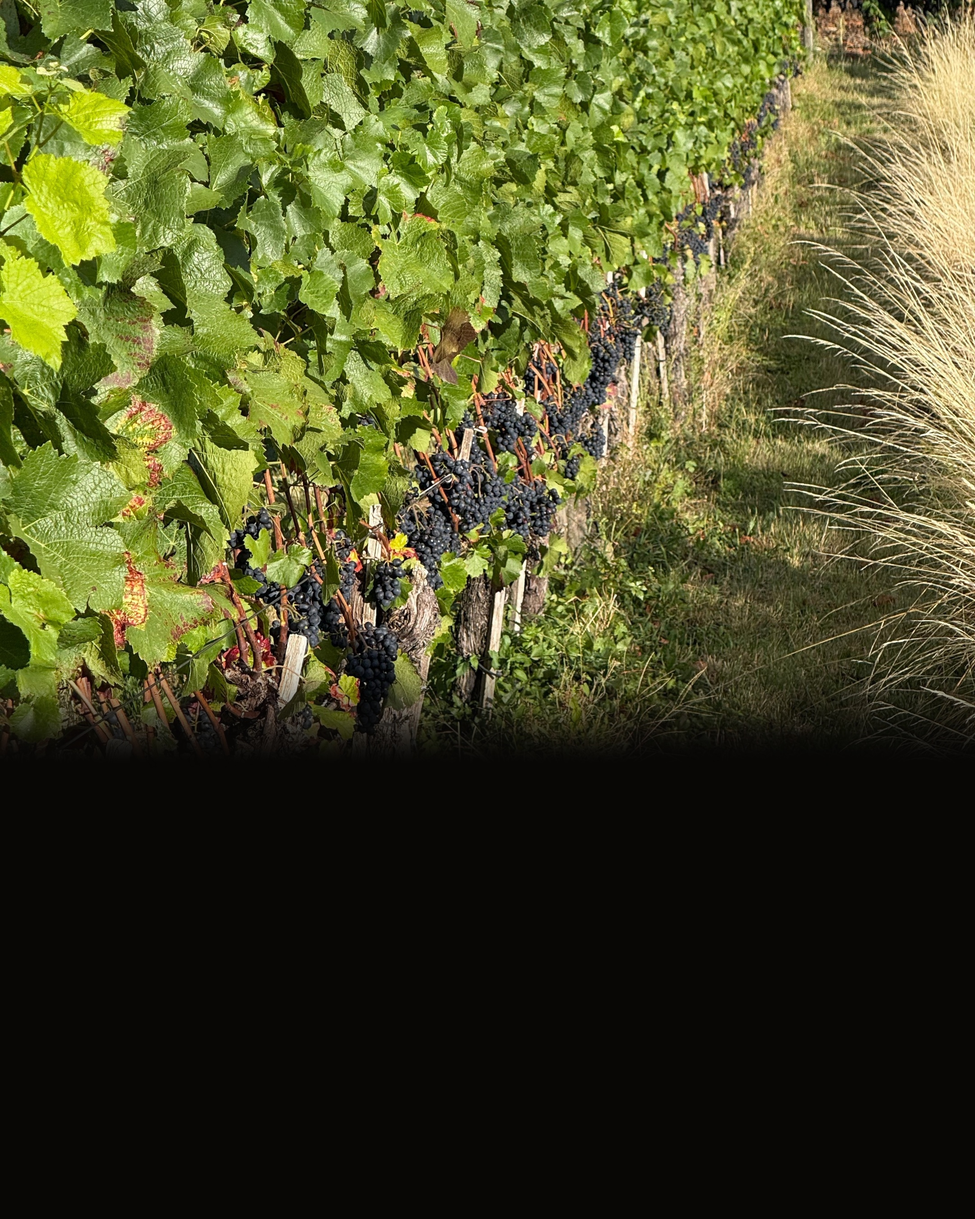
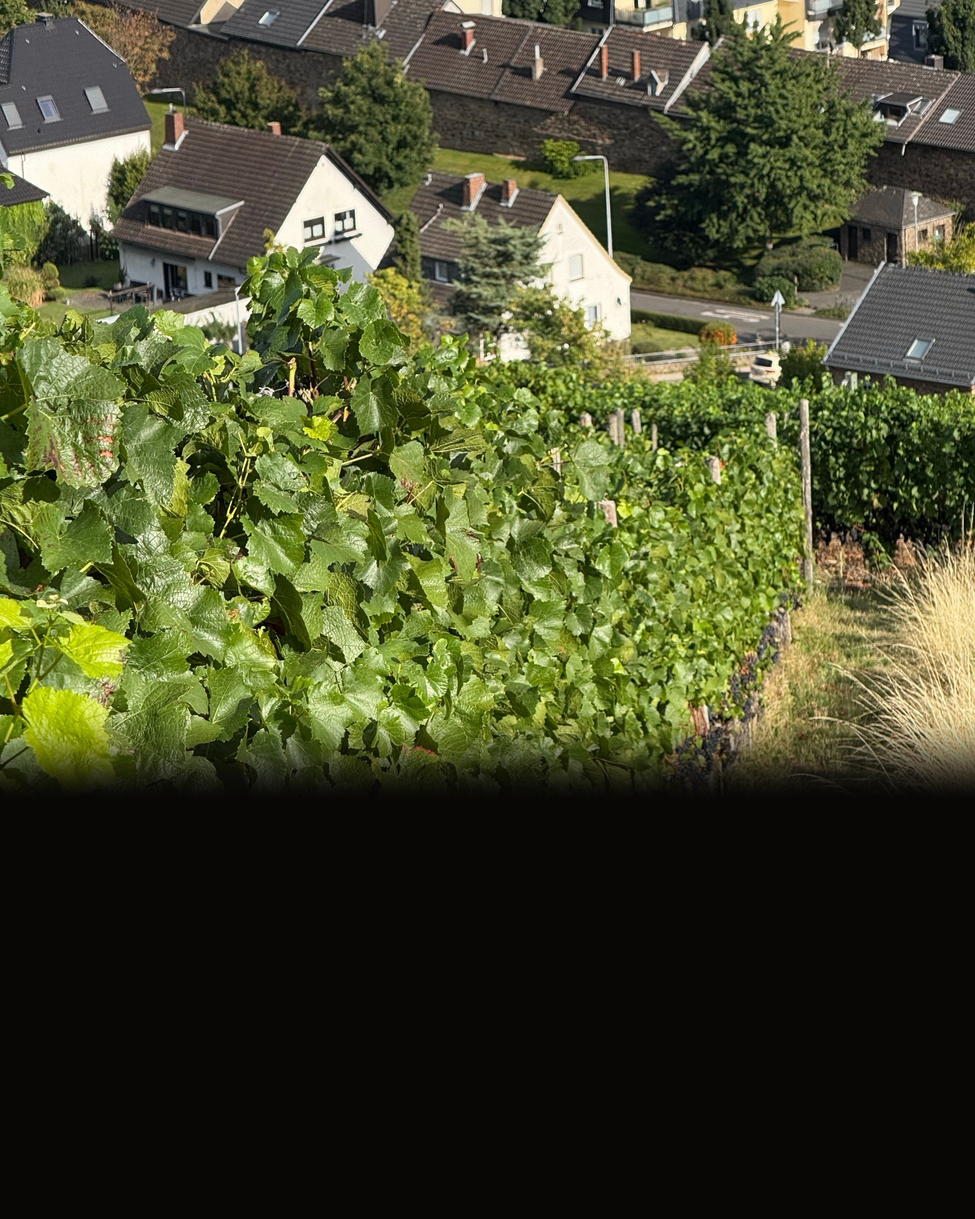
FFFA German reds: cover shows the village; toast photo on page 6
Steve: (1) change the cover crop so the village below is visible; (2) use the supplied
toast photograph on one of the pages.

1. COVER. The round 5 framing had cropped the village out to show the grape clusters. The
   cover is now top-aligned: roofs, garden walls, street and trees are in view above the vines.
   TRADE-OFF, stated plainly: at full width the photo is 2,880px tall but only ~1,780px sit above
   the type zone; the clusters are at 68-98% of the original's height and the village at 0-27%,
   so both cannot show. Three framings (shift 0 / 150 / 330) were compared with the type on;
   top-aligned shows the village best, the others only trade it for foliage. Only the small
   clusters along the row's right edge survive; the fade was made steeper (1560-1780) to keep as
   many as the type zone allows. The round 5 framing is one parameter away (shift_up=1180).
2. PAGE 6 photo: the toast (5538x3692, Pexels, RDNE Stock project; credit from the file name),
   because a toast with red wine pays off the 'Cheers!' sign-off. It replaced the Stuttgart
   terraces, so the Wurttemberg fact loses its Wurttemberg image; stated, and reversible.
   No location asserted. Shows identifiable people (Pexels license; no model release visible).
3. A credit-legibility catch: the adaptive credit chose dark ink (right for the bright corner) and
   an average check passed (10.9:1), but at full size a dark tree trunk crossed one or two
[…]

diff --git a/arc2/build_fffa_reds_cover.py b/arc2/build_fffa_reds_cover.py
@@ -16,15 +16,22 @@ fff_cover() adds no further crop. The glass was first placed 110px up; the base 
 within ~50px of the kicker icon, tight against the 120px rhythm elsewhere, so it is 150px.
 
 THE VINEYARD COVER (current). Steve supplied a 3024x4032 photograph of a vine row with clusters of
-dark red-wine grapes (Pexels, Sayed Masoumi; the photographer's name is from the file name) and
-asked for it as the cover. The clusters sit at ~68-98% of the frame's height, which is exactly
-where the cover's type goes, so a plain crop would put the title across the grapes. Instead the
-photo is scaled to the page width (0.714x: a downscale, so it stays crisp), shifted up 1,180px so
-the clusters sit at roughly y=1100-1650, and faded into near-black from y=1420 to y=1700. The fade ENDS
-at the photo's own bottom edge (page y=1700): a fade that ran past it left a faint green step against the black.
-A first pass (shift 1,304, fade 1250-1580) left the photo filling only the top 58% of the page with the clusters small. The houses
-at the top of the original are cropped out, which keeps the cover about the grapes. Location is
-NOT asserted: Pexels carries none and the file has none.
+dark red-wine grapes and a village below the slope (Pexels, Sayed Masoumi; the photographer's name
+is from the file name). Location is NOT asserted: Pexels carries none and the file has none.
+The photo is scaled to the page width (0.714x: a downscale, so it stays crisp) and TOP-ALIGNED, so
+the village (roofs, garden walls, street, trees) is in view, then faded into near-black from
+y=1560 to y=1780, which is where the cover's type zone begins (~1788).
+
+THE TRADE-OFF, and the history. At full width the whole photo is 2,880px tall but only ~1,780px
+sit above the type zone, so the village and the grape clusters cannot both be shown: the
+clusters are at 68-98% of the original's height, the village at 0-27%. Round 1 framed the clusters
+and cropped the village out (shift 1,304, then 1,180); Steve asked to see the village, so round 2
+is top-aligned. Three framings were compared with the type on: top-aligned (shift 0), 150 and 330.
+Top-aligned shows the village best; the others only trade it for foliage without bringing the
+grapes back. Only the small clusters along the right edge of the row survive; the fade was made
+steeper (start 1560, was 1420) to keep as many of those visible as the type zone allows. The fade
+ends where the type zone begins; earlier it ended exactly at the photo's own bottom edge, which
+no longer applies because the photo now continues below the canvas.
 
 THE GLASSES COVER (previous; retained, build with --glasses). Steve supplied a photograph of two glasses of red wine at a
 candlelit table (photos/de_reds_cover_glasses_612.jpg, 612x408 px, no embedded credit or license
@@ -63,7 +70,7 @@ def smooth(t):
     return t * t * (3 - 2 * t)
 
 
-def build_vineyard_cover(shift_up=1180, fade_from=1420, fade_to=1700):
+def build_vineyard_cover(shift_up=0, fade_from=1560, fade_to=1780):
     src = Image.open(f"{ROOT}/photos/de_reds_cover_vineyard_pexels.jpg").convert("RGB")
     sh = int(round(src.height * W / src.width))
     arr = np.asarray(src.resize((W, sh), Image.LANCZOS)).astype(float)
@@ -118,8 +125,9 @@ def grade_terraces(gamma=0.6):
 
 
 def main():
-    grade_terraces()
     build_vineyard_cover()
+    if "--terraces" in sys.argv:        # the closing page no longer uses the Stuttgart terraces
+        grade_terraces()
     if "--glasses" in sys.argv:
         build_glasses_cover()
     if "--splash" in sys.argv:

diff --git a/arc2/render_fffa_german_reds.py b/arc2/render_fffa_german_reds.py
@@ -69,7 +69,7 @@ The earlier splash cover was Saman Taheri (Unsplash). 1: Rheinhessen
 (Jugenheim) vineyard at sunrise, Sven Wilhelm. 2: red grapes, Waltershofen (Baden), Sven Finger.
 3: dark grapes, Rheinland-Pfalz, Luca J. 4: autumn vines on steep slate terraces at
 Mayschoss (Ahr), Superbass (Commons, CC BY-SA 3.0): Mayschoss is the village D3 names for the
-oldest cooperative in the world. 5: terraced vineyards, Stuttgart, Heliao. Grape varieties
+oldest cooperative in the world. 5: a toast with red wine (Steve's pick), RDNE Stock project (Pexels); it replaced the Stuttgart terraces (Heliao). Grape varieties
 are NOT asserted for any photograph.
 
 Social gates on a 6-page facts post:
@@ -112,7 +112,8 @@ CRED_WILHELM = "Sven Wilhelm / Unsplash"
 CRED_FINGER = "Sven Finger / Unsplash"
 CRED_LUCA = "Luca J / Unsplash"
 CRED_SUPERBASS = "Superbass / Wikimedia Commons (CC BY-SA 3.0)"
-CRED_HELIAO = "Heliao / Unsplash"
+CRED_HELIAO = "Heliao / Unsplash"   # the Stuttgart terraces: unused since page 6 took the toast photo
+CRED_RDNE = "RDNE Stock project / Pexels"
 
 COVER = dict(
     # Steve's photograph of a vine row with clusters of dark grapes (Pexels, Sayed Masoumi: the
@@ -175,7 +176,13 @@ FACTS = [
     ),
     dict(
         number=5,
-        photo="de_reds_stuttgart_terraces_graded",   # gamma 0.6; see build_fffa_reds_cover.py
+        # Steve: "use this picture on one of the pages". Page 6 is the natural home: a toast with red
+        # wine is the payoff for the "Cheers!" sign-off. TRADE-OFF: it replaced the Stuttgart
+        # terraces, so the Wurttemberg fact no longer carries a Wurttemberg image. The toast photo
+        # claims no place (Pexels gives none), and none is asserted. Credit from the file name
+        # (pexels-rdne-...): "rdne" is the Pexels contributor "RDNE Stock project". It shows
+        # identifiable people; Pexels' license covers that use, but a model release is not visible.
+        photo="de_reds_toast_pexels_rdne",
         photo_anchor=0.5,
         # First draft: "Two-Thirds Red, but Not Led by Pinot Noir", on two lines, which pushed
         # "Cheers!" to 57px from the page edge (the margin is 120). One line brings it up; and
@@ -195,7 +202,7 @@ FACTS = [
         # One line holds ~49 characters. First try ("...lead, though both came from elsewhere.", 63) wrapped
         # to a second line and put "Cheers!" 56px from the page edge. "Imports" is factual: Tyrol, Slovenia.
         body="Trollinger and Lemberger lead; both are imports.",
-        photo_credit=CRED_HELIAO,
+        photo_credit=CRED_RDNE,
     ),
 ]
 
@@ -214,7 +221,8 @@ def build():
     for i, slot in enumerate(FACTS, start=2):
         img = fff_fact(slot, i, total=TOTAL, closing=(i == TOTAL),
                        diagram=slot.get("diagram"), headline_color=FLAG_GOLD,
-                       accent_text_color=FLAG_RED)
+                       accent_text_color=FLAG_RED,
+                       credit_chip=True)   # the toast photo's dark post crossed the dark credit
         p = f"{OUT}/{i:02d}_fact{slot['number']}.png"
         img.save(p)
         paths.append(p)

diff --git a/formats/fff_facts.py b/formats/fff_facts.py
@@ -38,7 +38,7 @@ v2 changes from v1, per Steve's first-round notes:
 Checklist icon is drawn programmatically, not sourced as an asset, so
 it never drifts off-brand and never needs an external SVG dependency.
 """
-from PIL import ImageDraw
+from PIL import Image, ImageDraw
 from tokens import *
 import core
 from core import (new_canvas, footer, font, text_w, tracked_text, wrap,
@@ -379,8 +379,18 @@ def fff_cover(slot, total=FFFA_SLIDE_COUNT, headline_color=None, kicker_color=No
 
 
 # ────────────────────────── FFFA FACT ──────────────────────────
+def _credit_chip(img, box, fill, alpha, radius=10):
+    """A soft rounded chip behind small print that sits on a busy photo (v4)."""
+    x0, y0, x1, y1 = [int(v) for v in box]
+    reg = img.crop((x0, y0, x1, y1))
+    blended = Image.blend(reg, Image.new("RGB", reg.size, fill), alpha)
+    mask = Image.new("L", reg.size, 0)
+    ImageDraw.Draw(mask).rounded_rectangle([0, 0, reg.width - 1, reg.height - 1], radius=radius, fill=255)
+    img.paste(blended, (x0, y0), mask)
+
+
 def fff_fact(slot, slide_no, total=FFFA_SLIDE_COUNT, closing=False, diagram=None, headline_color=None,
-             accent_text_color=None):
+             accent_text_color=None, credit_chip=False):
     """slots: photo, number(1-5), headline, body(15-20 words),
     photo_anchor, photo_zoom, photo_credit. closing=True on the last
     call folds "Cheers!" into this same page. diagram="bars" draws a general share
@@ -414,10 +424,15 @@ def fff_fact(slot, slide_no, total=FFFA_SLIDE_COUNT, closing=False, diagram=None
         # or drop to INK, the same adaptive approach the reveal caption
         # in guess_the_region already uses.
         cbox = (W - M - cw - 16, cy - 10, W - M + 8, cy + 46)
-        if region_luminance(img, cbox) > 150:
-            d.text((W - M - cw, cy), ctxt, font=crf, fill=INK)
-        else:
-            d.text((W - M - cw, cy), ctxt, font=crf, fill=PAPER)
+        bright = region_luminance(img, cbox) > 150
+        if credit_chip:
+            # v4, opt-in. The average hides a local failure: a dark post or branch crossing a
+            # dark credit (or a bright patch crossing a white one) costs a letter or two.
+            # A soft chip in the opposite tone guarantees the contrast whatever is behind it.
+            _credit_chip(img, (W - M - cw - 22, cy - 10, W - M + 14, cy + 48),
+                         PAPER if bright else INK, 0.82 if bright else 0.60)
+            d = ImageDraw.Draw(img)
+        d.text((W - M - cw, cy), ctxt, font=crf, fill=INK if bright else PAPER)
 
     block_top = photo_h
     d.rectangle([0, block_top, W, H], fill=INK)

diff --git a/arc2/FFFA_GERMAN_REDS_NOTES.md b/arc2/FFFA_GERMAN_REDS_NOTES.md
@@ -9,7 +9,7 @@
 | 3 | Germany's Pinot Noir Almost Tripled | red grapes, Baden |
 | 4 | Dornfelder Went From Nothing to No. 2 Red | dark grapes, Rheinland-Pfalz |
 | 5 | Four in Five Ahr Vines Are Red | autumn slate terraces at Mayschoss + **bar chart** (Germany / Württemberg / Ahr) |
-| 6 | Württemberg Focuses Mostly on Regional Red Varieties, then **Cheers!** | terraced vineyards, Stuttgart |
+| 6 | Württemberg Focuses Mostly on Regional Red Varieties, then **Cheers!** | a toast with red wine (Steve's pick) |
 
 ## Sources, and where they disagree
 D3 Ch. 11 (Aug 2026 edition) is the primary source. Every figure was checked against the
@@ -38,7 +38,7 @@ Schwarzriesling *is* a Pinot (Meunier), so page 6 now says "not Pinot **Noir**" 
 **Chanel (editing).** Page 5's body ended on an orphaned "it possible."; recut to two lines.
 Page 6's two-line headline became one.
 **Ive (craft, measured).** (1) "Cheers!" ended **57 px** from the page edge (margin 120)
-because of the two-line headline; with it on one line, **217 px**. (2) Page 6's photo band
+because of the two-line headline; with it on one line, **217 px**. (2) *(superseded in round 6: page 6 now has the toast photo.)* Page 6's photo band
 averaged **0.040** luminance against 0.19-0.30 on the other pages; a gamma lift of 0.6
 (to 0.095) makes the terraces legible and keeps the dusk. The original is untouched; the
 graded copy is built by `build_fffa_reds_cover.py`. (3) The cover glass's base came within ~50 px of the
@@ -72,7 +72,29 @@ regional specialties**. The body says so: "Trollinger and Lemberger lead; both a
 - **Layout:** a two-line heading plus a two-line body pushed "Cheers!" to 56 px from the page edge, so the body is one line
   (about 49 characters fit) and "Cheers!" is 156 px up.
 
-## Cover change (round 5): the vineyard photo
+## Cover reframe (round 6): the village
+Steve asked to see the village below the vineyard, which the round 5 framing had cropped out. **The cover is now top-aligned**, so the
+roofs, garden walls, street and trees are in view above the vines. **The trade-off:** at full width the photo is 2,880 px tall but only
+about 1,780 px sit above the type zone, and the grape clusters are at 68-98% of the original's height while the village is at 0-27%,
+so both cannot show. I compared three framings with the type on (top-aligned, shifted 150 px, shifted 330 px); top-aligned shows the
+village best and the others only swap it for foliage without bringing the grapes back. Only the small clusters along the right edge of
+the row survive. The fade into black was made steeper (1560 to 1780) to keep as many as the type zone allows. If the grapes matter
+more than the village, the round 5 framing is one parameter away (`shift_up=1180`).
+
+## Page 6 photo (round 6): the toast
+Steve supplied a toast photograph ("use this picture on one of the pages"). **I put it on page 6**, where a toast with red wine pays off the
+"Cheers!" sign-off. **The trade-off:** it replaced the Stuttgart terraces, so the Württemberg fact no longer carries a Württemberg image
+(the page claims no location for the toast: Pexels gives none). Move it to another page if you prefer, and the terraces can return.
+- The photo is 5538 x 3692, a 3:2 frame that fits the fact-page photo band almost uncropped, and it is bright (mean luminance 0.34 against
+  0.19-0.30 on the other pages), so the dark-photo fix from round 1 no longer applies.
+- **Credit:** "RDNE Stock project / Pexels", taken from the file name (`pexels-rdne-...`; "rdne" is the Pexels contributor "RDNE Stock project").
+  Tell me if the name is wrong.
+- **A credit-legibility catch:** the format printed the credit in dark ink (correct for the bright corner), and an average-contrast check passed
+  (10.9:1). But at full size a dark tree trunk in the photo crossed one or two letters. The fix is a soft paper-toned chip behind the credit,
+  an **opt-in** format option (`credit_chip=True`); no earlier FFFA deck changes.
+- The photo shows identifiable people. Pexels' license covers that use, but a model release is not visible to me.
+
+## Cover change (round 5, framing superseded by round 6): the vineyard photo
 Steve supplied a photograph of a vine row with clusters of dark grapes and asked for it as the cover. It is 3024 x 4032 (crisp),
 credited "Sayed Masoumi / Pexels" (the name is from the file name; Pexels carries no location, so none is asserted). The clusters
 sit in the lower third, where the type goes, so the photo is scaled to the page width, shifted up so the clusters land just above

diff --git a/guides/FFFA_STYLE_GUIDE.md b/guides/FFFA_STYLE_GUIDE.md
@@ -261,6 +261,13 @@ row up to a small line under the top-right grid mark (`_finish()`'s
   **never** touched by these: they are the series identity, and are not fonts. Precedent: the German reds deck uses the
   German flag (gold headlines, red numerals/kicker/"!"). **Black cannot be a font colour on the dark block (1.33:1);
   it stays the ground.** Measure each pairing: gold was 10.6:1 on INK, red 3.07:1 (just over the 3.0 floor).
+- **Opt-in `fff_fact(credit_chip=True)` for a credit on a busy photo.** The closing page prints its credit top-right over the photo,
+  and the format picks dark or white text from the average brightness there. An average hides a local failure: a dark post crossing a
+  dark credit cost two letters on the toast photo (10.9:1 average, but unreadable at the post). The chip is a soft rounded label in the
+  opposite tone behind the text. Off by default, so earlier decks render exactly as before. **Check the credit at full size, not by average.**
+- **A tall portrait cover cannot show both its top and its bottom.** At full page width a 3:4 photo is 2,880 px tall but only ~1,780 px sit
+  above the cover's type zone. Choose what the cover is *about* (here: the village, or the grapes), compare framings with the type on, and
+  say what was given up.
 - **A small supplied photo for the cover needs a recipe, and an honest word.** A 612 px-wide source cropped to ~330 px
   and filled to a 2160 px cover is a 6.5x enlargement. What worked (tested on the real output): denoise first (JPEG
   blocks show as stair-steps under plain Lanczos), two 2x Lanczos steps, a light unsharp, then fine monochrome grain
